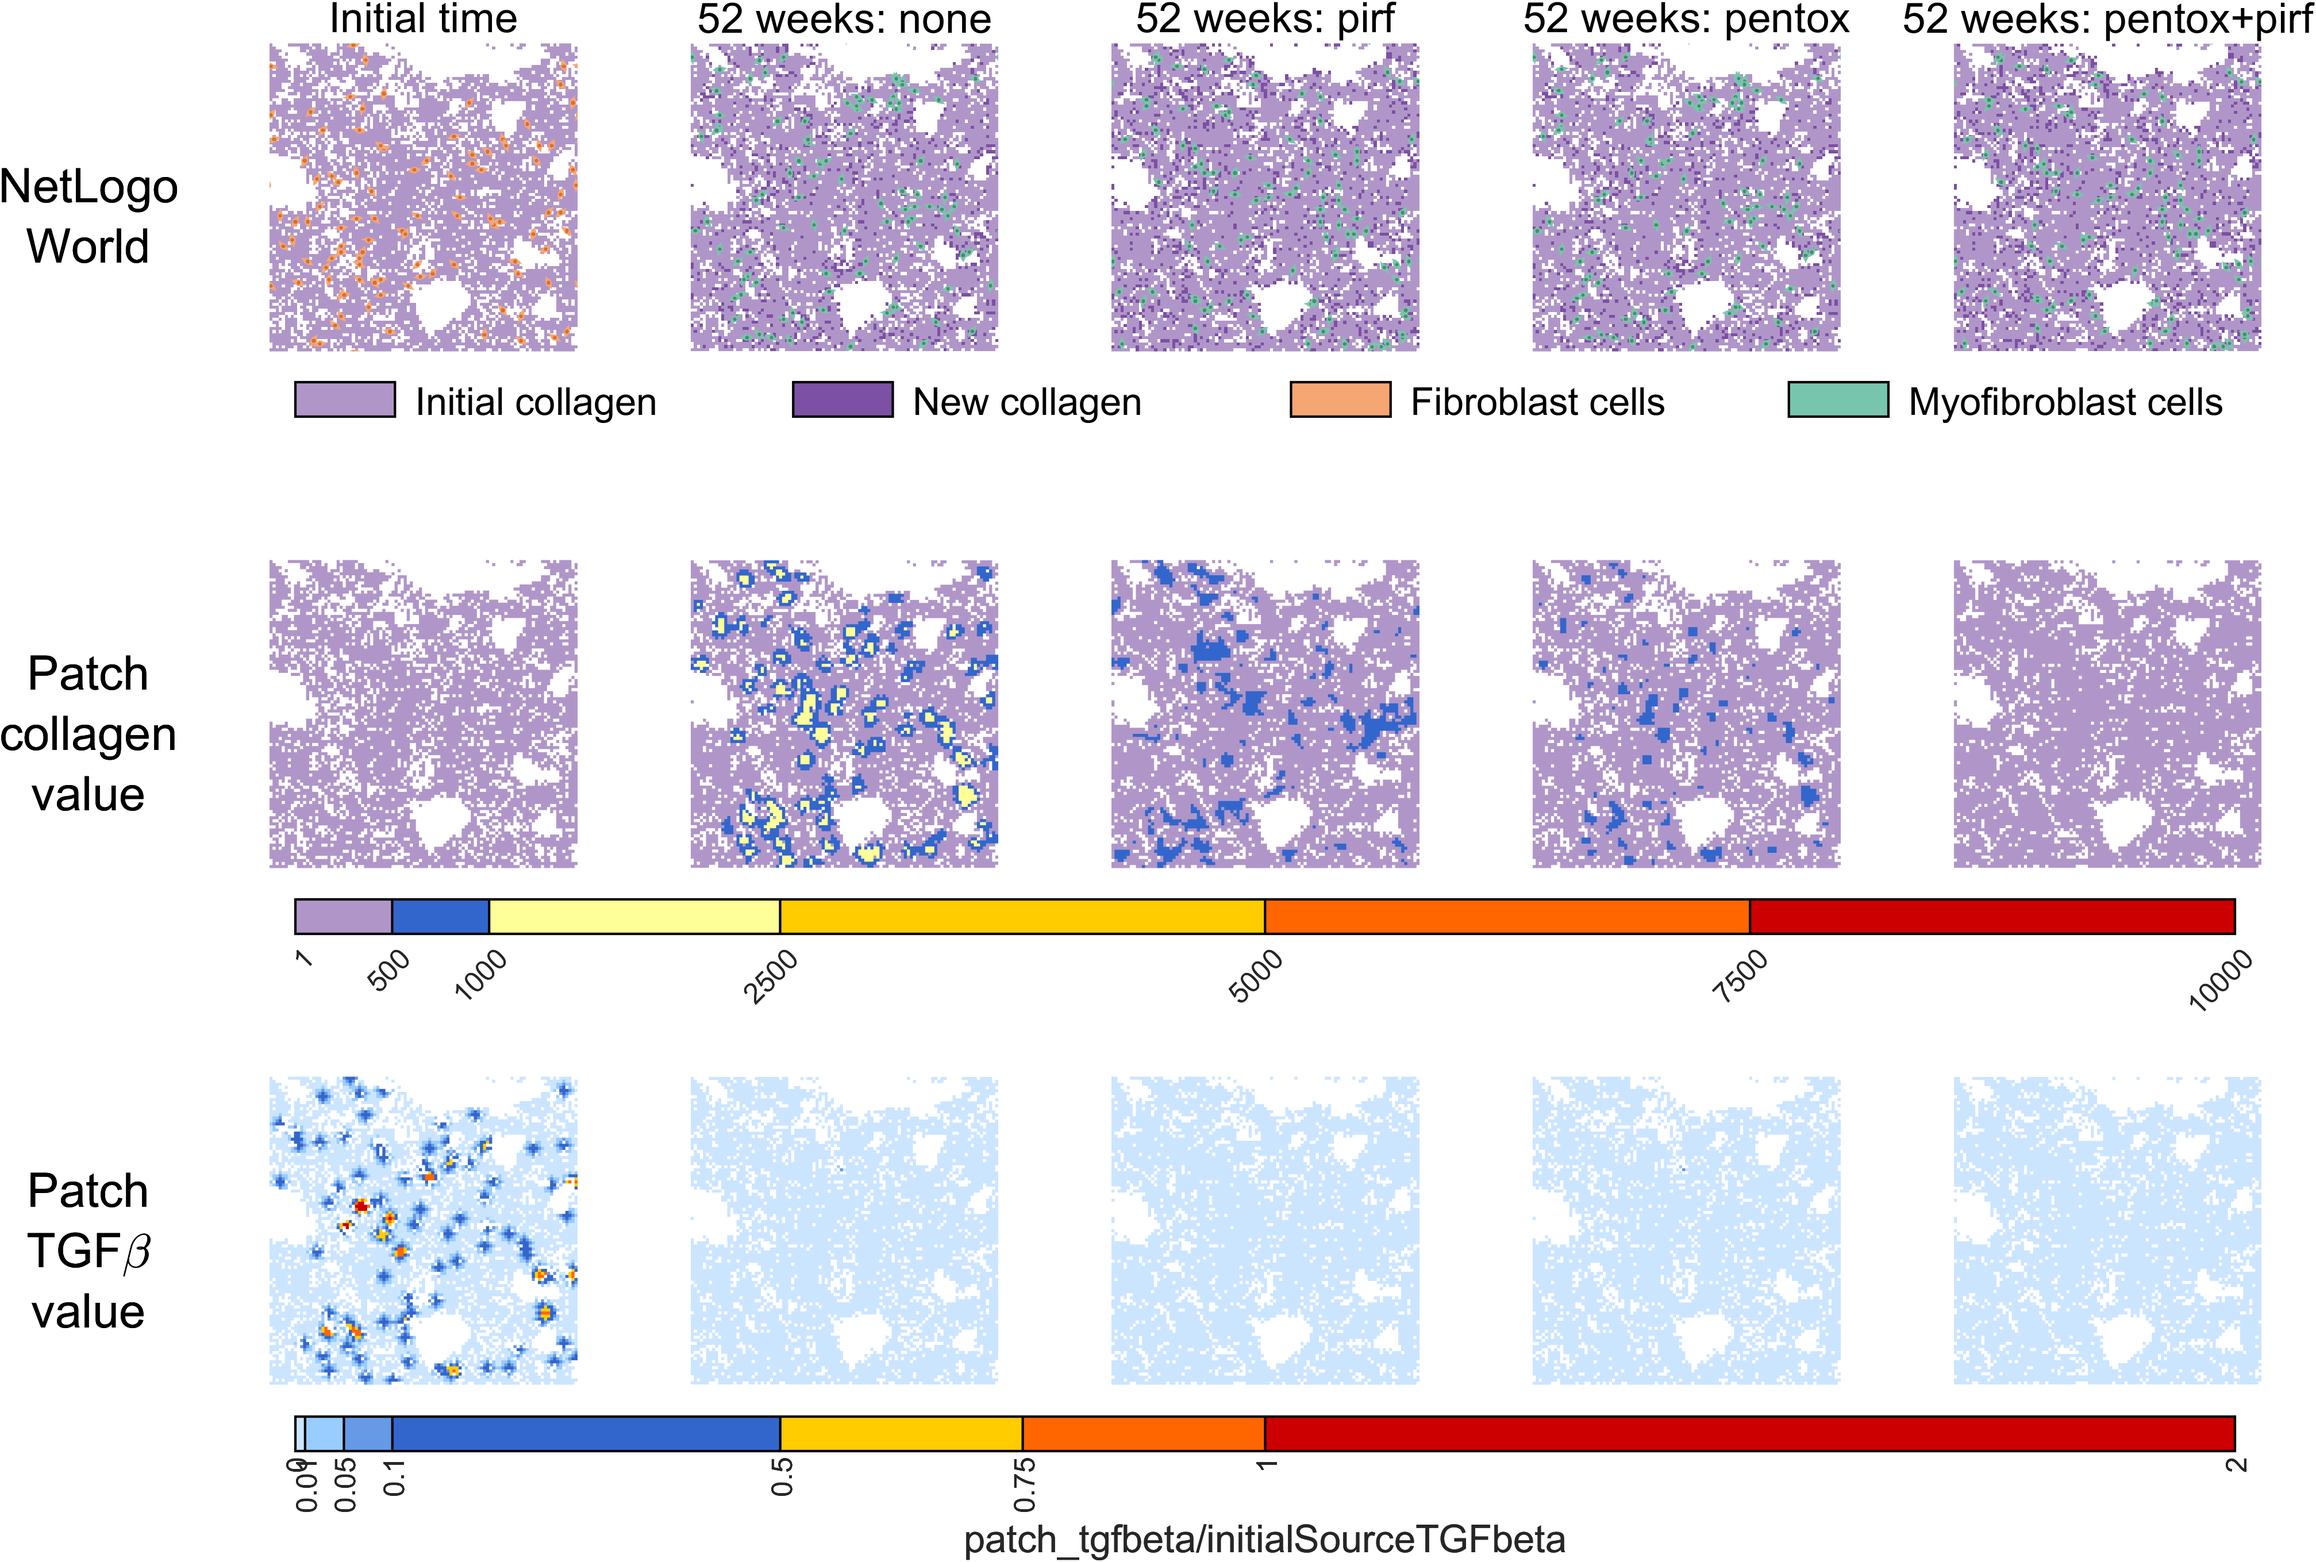
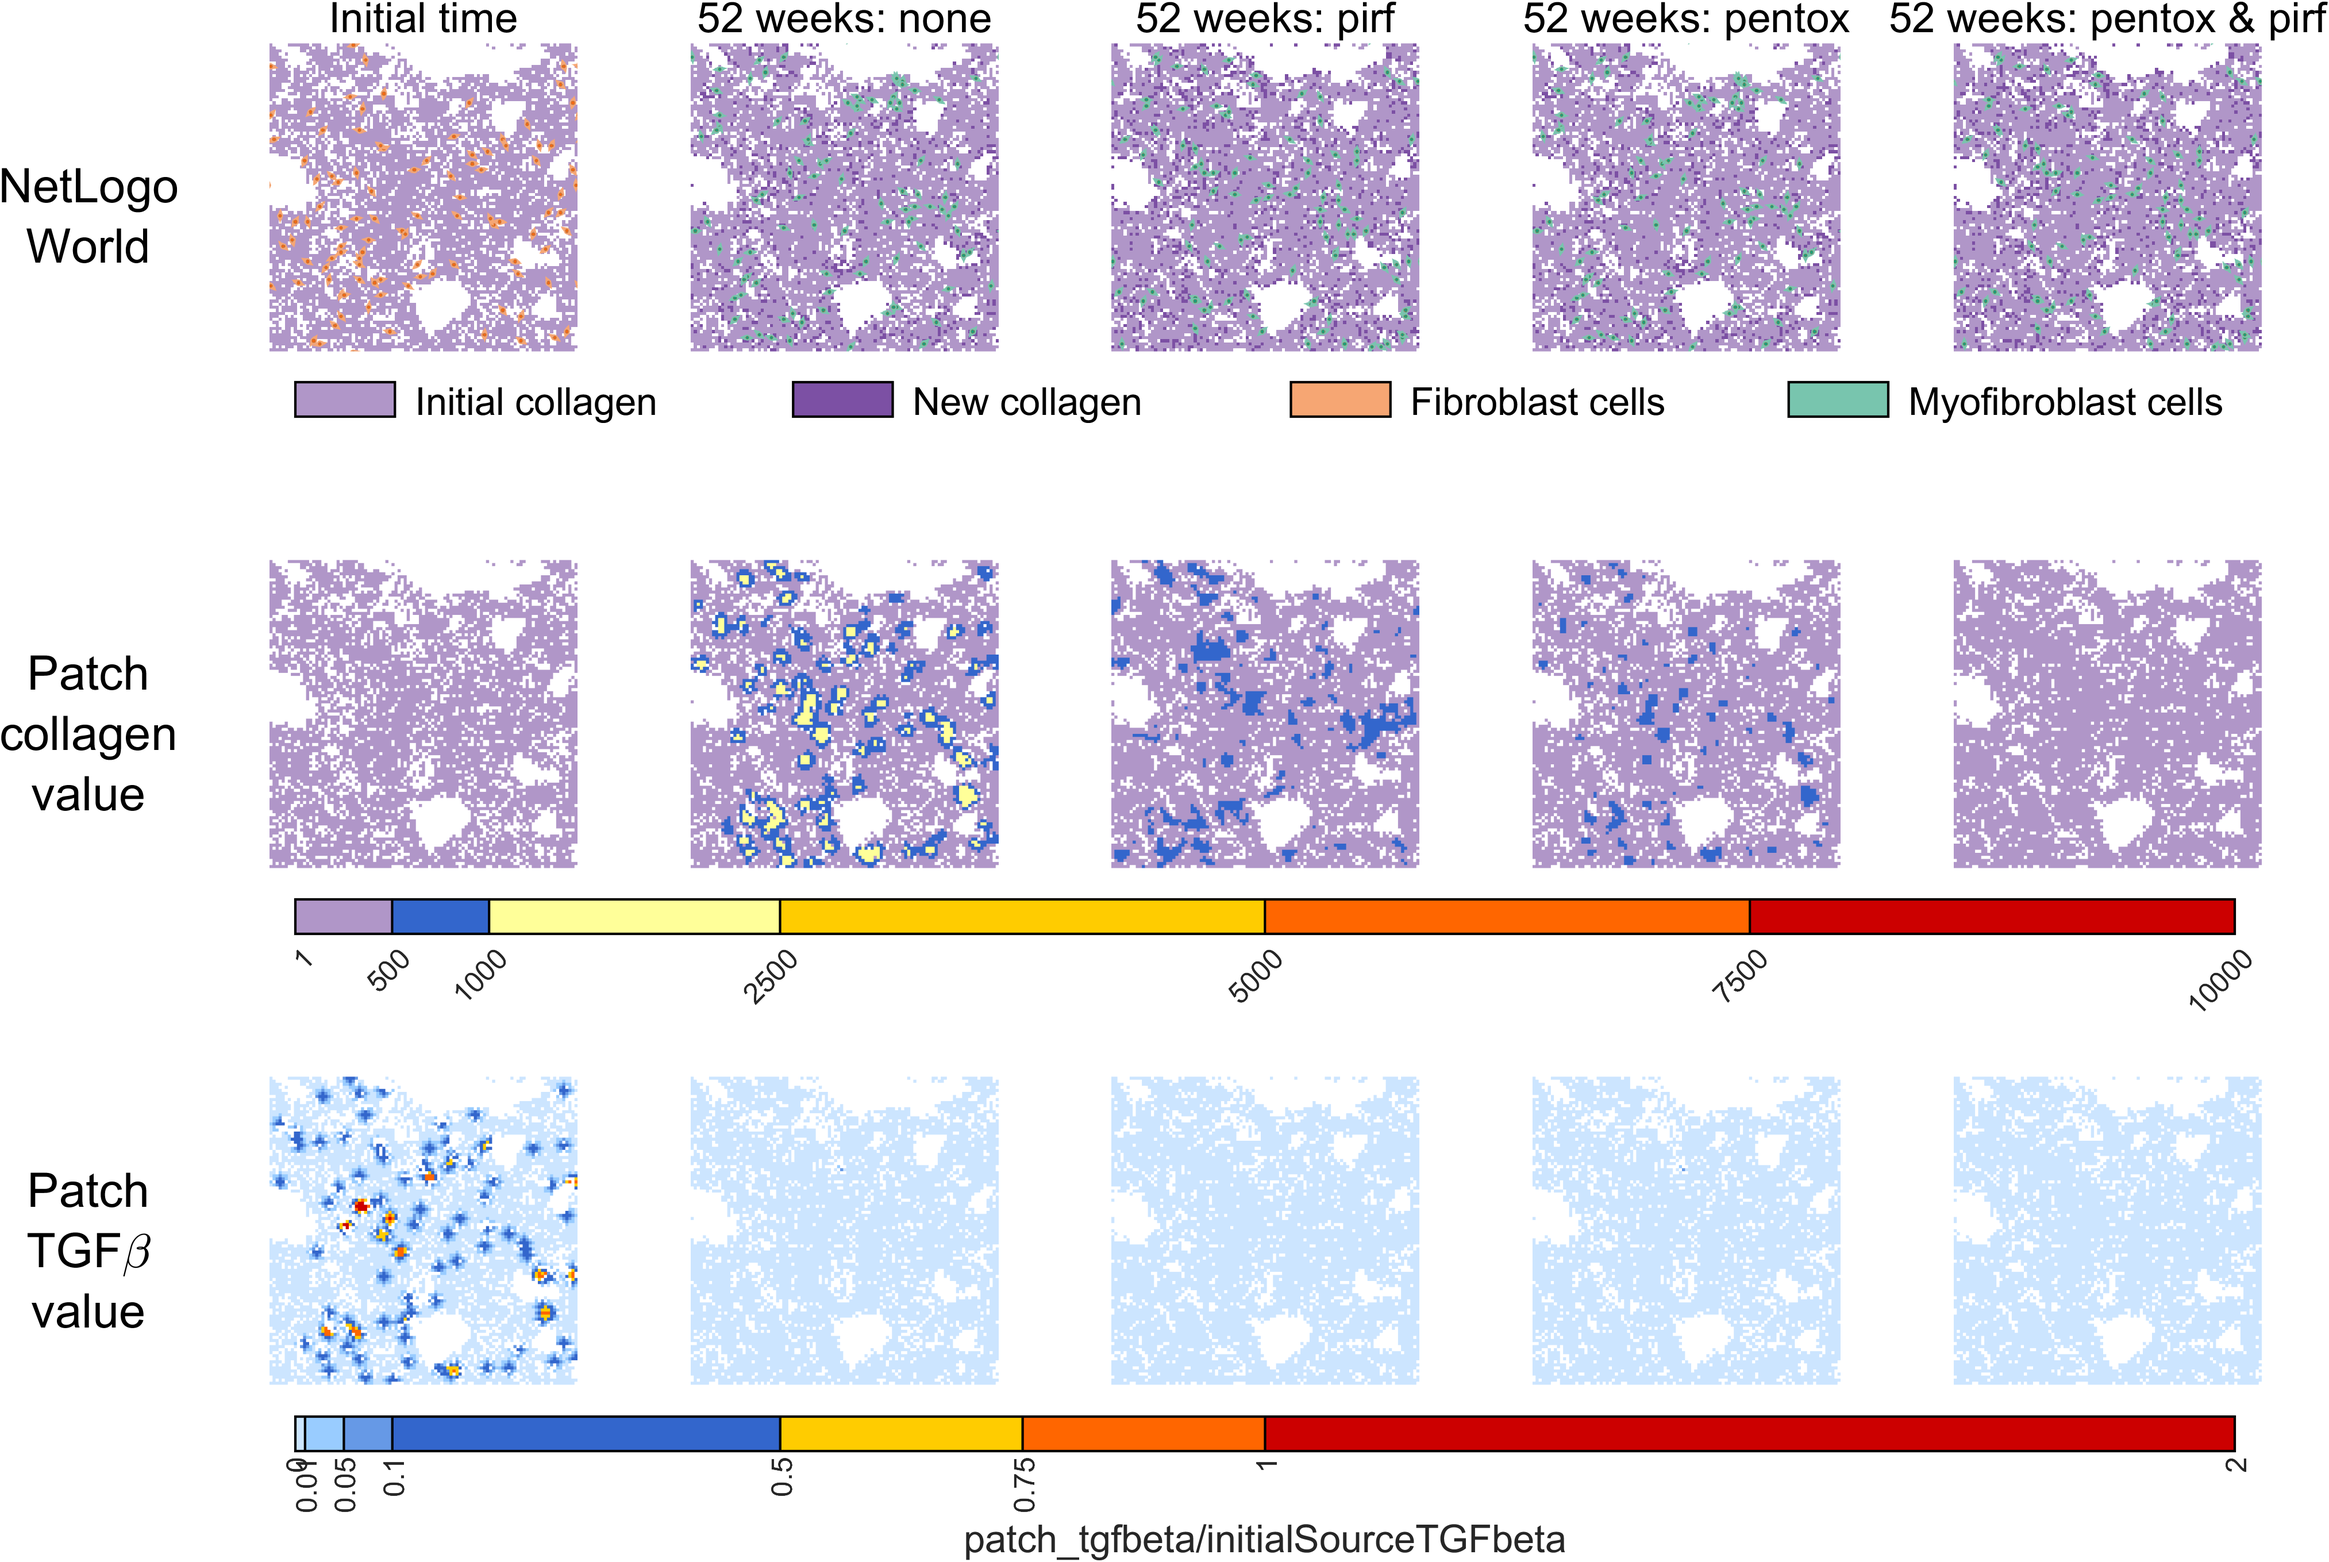
created a zoomed in version for case A, rep 1, ifc = 100, no treatment initial and final

diff --git a/PlotExportWorldBehaviorSpaceFigForEachRep.m b/PlotExportWorldBehaviorSpaceFigForEachRep.m
@@ -12,7 +12,7 @@ selectedmatrix = [60+49, 49:3:60; 60+50, 50:3:60; 60+51, 51:3:60];
 cols = 5; rows = 3; reps = 3;
 replicateLabels = {"Rep1","Rep2","Rep3"};
 rowLabels = {"NetLogo World","Patch collagen value","Patch TGF\beta value"};
-treatmentLabels = {"Initial time","52 weeks: none","52 weeks: pirf","52 weeks: pentox","52 weeks: pentox+pirf"};
+treatmentLabels = {"Initial time","52 weeks: none","52 weeks: pirf","52 weeks: pentox","52 weeks: pentox & pirf"};
 
 % Fixed colorbar settings
 collagenEdges = [1 500 1000 2500 5000 7500 10000]; % 12000
@@ -42,7 +42,9 @@ for z = 1:3
     files = dir(fullfile(folder{z}, '*.png'));
     fileNames = natsortfiles({files.name});
 
-    for r = 1:reps
+    if z == 1
+        r = 1;
+        cols = 2;
         figure(r)
         fig = gcf;
         set(fig,'Units','normalized','Position',[0 0 1 1]);
@@ -59,31 +61,189 @@ for z = 1:3
 
         
         % Legend axis below row 1
-        legendAx = axes('Position',[0.14 0.67 0.77 0.04]); % adjust Y for below row 1
+        legendAx = axes('Position',[0.20 0.65 0.60 0.05]); % adjust Y for below row 1
         hold(legendAx,'on');
-        
+
+      
         % Define colors
         lightPurple = [176 150 200]/255;
         darkPurple  = [124 80 164]/255;
         orangeMarker = [246 166 115]/255;
         greenMarker  = [120 197 174]/255;
         
+
+        % Layout parameters (normalized to legend axis)
+        patchWidth = 0.075;     % HALF the previous width (was ~0.15)
+        patchHeightTop = [0.60 0.60 0.95 0.95];   % top row patch Y coords
+        patchHeightBot = [0.05 0.05 0.40 0.40];   % bottom row patch Y coords
+        textOffsetX   = 0.02;   % gap between patch and label
+        textSize      = 6;      % slightly smaller font for compact legend
+        
+        % Column anchors (left edges) for two items per row
+        colLefts = [0.02, 0.52];  % adjust to center under your subplots
+        
+        % --- Row 1: Initial collagen, New collagen ---
+        % Initial collagen
+        xL = colLefts(1); xR = xL + patchWidth;
+        patch([xL xR xR xL], patchHeightTop, lightPurple, 'EdgeColor','k');
+        text(xR + textOffsetX, 0.78, 'Initial collagen', 'FontSize', textSize, 'VerticalAlignment','middle');
+        
+        % New collagen
+        xL = colLefts(2); xR = xL + patchWidth;
+        patch([xL xR xR xL], patchHeightTop, darkPurple, 'EdgeColor','k');
+        text(xR + textOffsetX, 0.78, 'New collagen', 'FontSize', textSize, 'VerticalAlignment','middle');
+        
+        % --- Row 2: Fibroblast cells, Myofibroblast cells ---
+        % Fibroblast cells
+        xL = colLefts(1); xR = xL + patchWidth;
+        patch([xL xR xR xL], patchHeightBot, orangeMarker, 'EdgeColor','k');
+        text(xR + textOffsetX, 0.23, 'Fibroblast cells', 'FontSize', textSize, 'VerticalAlignment','middle');
+        
+        % Myofibroblast cells
+        xL = colLefts(2); xR = xL + patchWidth;
+        patch([xL xR xR xL], patchHeightBot, greenMarker, 'EdgeColor','k');
+        text(xR + textOffsetX, 0.23, 'Myofibroblast cells', 'FontSize', textSize, 'VerticalAlignment','middle');
+        
+        axis(legendAx,[0 1 0 1]);
+        axis(legendAx,'off');
+        hold(legendAx,'off');
+
+        
+        % patch data from csv files
+        for k = 1:cols
+            csv_filename = [folder{z} '\' fileNames{selectedmatrix(r,k)}(1:end-4) '.csv'];
+            GlobalVars = readtable(csv_filename,Range="A9:BH10",FileType="spreadsheet");
+            turtlesStartRow = 13;
+            turtlesEndRow = turtlesStartRow+GlobalVars.initial_fibroblast_cells;
+            patchesStartRow = turtlesEndRow+3;
+            patchesEndRow = patchesStartRow+(GlobalVars.max_pxcor-GlobalVars.min_pxcor+1)*(GlobalVars.max_pycor-GlobalVars.min_pycor+1);
+            patchesDataCoords = ['A', num2str(patchesStartRow),':O',num2str(patchesEndRow)];
+            Patches = readtable(csv_filename,Range=patchesDataCoords,FileType="spreadsheet");
+
+            % Row 2: Collagen plots
+            rowNumber = 2;            
+            subplot(rows, cols, (rowNumber-1)*cols+k);
+            plotPatchQuantityWithCollagenBoundary(Patches.pxcor,Patches.pycor,Patches.total_patch_collagen,'total\_patch\_collagen',Patches.pcolor,collagenEdges,collagenColors);
+
+            if k == 2
+
+                % Add collagen colorbar below row 2
+                cbAx = axes('Position',[0.14 0.38 0.75 0.02]); % adjust Y for below row 2
+                hold(cbAx,'on');
+                for i = 1:length(collagenEdges)-1
+                    patch([collagenEdges(i) collagenEdges(i+1) collagenEdges(i+1) collagenEdges(i)], [0 0 1 1], collagenColors(i,:), 'EdgeColor', 'k');
+                end
+                axis(cbAx,[collagenEdges(1) collagenEdges(end) 0 1]);
+                set(cbAx,'YTick',[], 'XTick',collagenEdges,'fontsize',6);
+                xtickangle(cbAx, 45);
+            end
+
+            % Row 3: TGF-beta plots
+            rowNumber = 3;
+            subplot(rows, cols, (rowNumber-1)*cols+k);
+            plotPatchQuantityWithCollagenBoundary(Patches.pxcor,Patches.pycor,Patches.patch_tgfbeta,'patch\_tgfbeta',Patches.pcolor,tgfEdges,tgfColors);
+            
+            if k == 2
+
+                % Add TGF-beta colorbar below row 3
+                cbAx = axes('Position',[0.14 0.08 0.75 0.02]); % adjust Y for bottom
+                hold(cbAx,'on');
+                for i = 1:length(tgfEdges)-1
+                    patch([tgfEdges(i) tgfEdges(i+1) tgfEdges(i+1) tgfEdges(i)], [0 0 1 1], tgfColors(i,:), 'EdgeColor', 'k');
+                end
+                axis(cbAx,[tgfEdges(1) tgfEdges(end) 0 1]);
+                set(cbAx,'YTick',[], 'XTick',tgfEdges,'fontsize',6);
+                xlabel(cbAx,'patch\_tgfbeta/initialSourceTGFbeta','fontsize',8);
+                xtickangle(cbAx, 90);
+
+
+            end
+        end
+
+        % Add row labels as annotations (outside subplots)
+        annotation('textbox', [0.02 0.78 0.08 0.05], 'String', rowLabels{1}, ...
+            'FontSize', 8, 'HorizontalAlignment', 'center', ...
+            'VerticalAlignment', 'middle', 'EdgeColor', 'none');
+        
+        annotation('textbox', [0.02 0.48 0.08 0.05], 'String', rowLabels{2}, ...
+            'FontSize', 8,  'HorizontalAlignment', 'center', ...
+            'VerticalAlignment', 'middle', 'EdgeColor', 'none');
+        
+        annotation('textbox', [0.02 0.18 0.08 0.05], 'String', rowLabels{3}, ...
+            'FontSize', 8,  'HorizontalAlignment', 'center', ...
+            'VerticalAlignment', 'middle', 'EdgeColor', 'none');
+
+        figname = strcat('combined_gridZoom_', cases{z}, replicateLabels{r});
+        %saveas(gcf,strcat(figname, '.png'));
+
+        fig= gcf;
+
+        % Adjust based on figure's aspect ratio
+        widthInches = 3.5;
+        heightInches = 5;
+        
+        % Get current size in inches
+        figPos = get(fig, 'Position');
+        set(fig, 'Units', 'Inches');
+
+        
+        
+        % Set figure size
+        set(fig, 'Position', [1, 1, widthInches, heightInches]);
+        set(fig, 'PaperUnits', 'Inches');
+        set(fig, 'PaperSize', [widthInches, heightInches]);
+        figPos = get(fig, 'Position');
+        set(fig, 'PaperPositionMode', 'manual');
+        fig = gcf;
+        
+        %figname = 'test';
+        exportgraphics(fig,strcat(figname, '.png'),'Resolution',600)
+        close all
+    end
+
+    cols = 5; rows = 3; reps = 3;
+    for r = 1:reps
+        figure(r)
+        fig = gcf;
+        set(fig,'Units','normalized','Position',[0 0 1 1]);
+
+        % Row 1: PNG images from NetLogo worlds
+        rowNumber = 1;
+        for k = 1:cols        
+            subplot(rows, cols, (rowNumber-1)*cols+k);
+            img = imread(fullfile(folder{z}, fileNames{selectedmatrix(r,k)}));
+            imshow(img);
+            axis off;
+            title(treatmentLabels{k},'FontWeight', 'normal');
+        end
+
+
+        % Legend axis below row 1
+        legendAx = axes('Position',[0.14 0.67 0.77 0.04]); % adjust Y for below row 1
+        hold(legendAx,'on');
+
+        % Define colors
+        lightPurple = [176 150 200]/255;
+        darkPurple  = [124 80 164]/255;
+        orangeMarker = [246 166 115]/255;
+        greenMarker  = [120 197 174]/255;
+
         % Draw color blocks
         patch([0 0.05 0.05 0],[0.5 0.5 1 1], lightPurple, 'EdgeColor','k');
         text(0.06, 0.75, 'Initial collagen', 'FontSize',8);
-        
+
         patch([0.25 0.3 0.3 0.25],[0.5 0.5 1 1], darkPurple, 'EdgeColor','k');
         text(0.31, 0.75, 'New collagen', 'FontSize',8);
-        
+
         patch([0.5 0.55 0.55 0.5],[0.5 0.5 1 1], orangeMarker, 'EdgeColor','k');
         text(0.56, 0.75, 'Fibroblast cells', 'FontSize',8);
-        
+
         patch([0.75 0.8 0.8 0.75],[0.5 0.5 1 1], greenMarker, 'EdgeColor','k');
         text(0.81, 0.75, 'Myofibroblast cells', 'FontSize',8);
 
         axis(legendAx,[0 1 0 1]);
         axis off;
-        
+
         % patch data from csv files
         for k = 1:cols
             csv_filename = [folder{z} '\' fileNames{selectedmatrix(r,k)}(1:end-4) '.csv'];
@@ -117,7 +277,7 @@ for z = 1:3
             rowNumber = 3;
             subplot(rows, cols, (rowNumber-1)*cols+k);
             plotPatchQuantityWithCollagenBoundary(Patches.pxcor,Patches.pycor,Patches.patch_tgfbeta,'patch\_tgfbeta',Patches.pcolor,tgfEdges,tgfColors);
-            
+
             if k == 5
 
                 % Add TGF-beta colorbar below row 3
@@ -139,11 +299,11 @@ for z = 1:3
         annotation('textbox', [0.02 0.78 0.08 0.05], 'String', rowLabels{1}, ...
             'FontSize', 10, 'HorizontalAlignment', 'center', ...
             'VerticalAlignment', 'middle', 'EdgeColor', 'none');
-        
+
         annotation('textbox', [0.02 0.48 0.08 0.05], 'String', rowLabels{2}, ...
             'FontSize', 10,  'HorizontalAlignment', 'center', ...
             'VerticalAlignment', 'middle', 'EdgeColor', 'none');
-        
+
         annotation('textbox', [0.02 0.18 0.08 0.05], 'String', rowLabels{3}, ...
             'FontSize', 10,  'HorizontalAlignment', 'center', ...
             'VerticalAlignment', 'middle', 'EdgeColor', 'none');
@@ -156,13 +316,13 @@ for z = 1:3
         % Adjust based on figure's aspect ratio
         widthInches = 7.5;
         heightInches = 5;
-        
+
         % Get current size in inches
         figPos = get(fig, 'Position');
         set(fig, 'Units', 'Inches');
 
-        
-        
+
+
         % Set figure size
         set(fig, 'Position', [1, 1, widthInches, heightInches]);
         set(fig, 'PaperUnits', 'Inches');
@@ -170,12 +330,12 @@ for z = 1:3
         figPos = get(fig, 'Position');
         set(fig, 'PaperPositionMode', 'manual');
         fig = gcf;
-        
+
         %figname = 'test';
         exportgraphics(fig,strcat(figname, '.png'),'Resolution',600)
 %        exportgraphics(fig,strcat(figname, '.pdf'),'Resolution',600)
-
     end
+    close all
 end
 warning('on', 'all')
 
